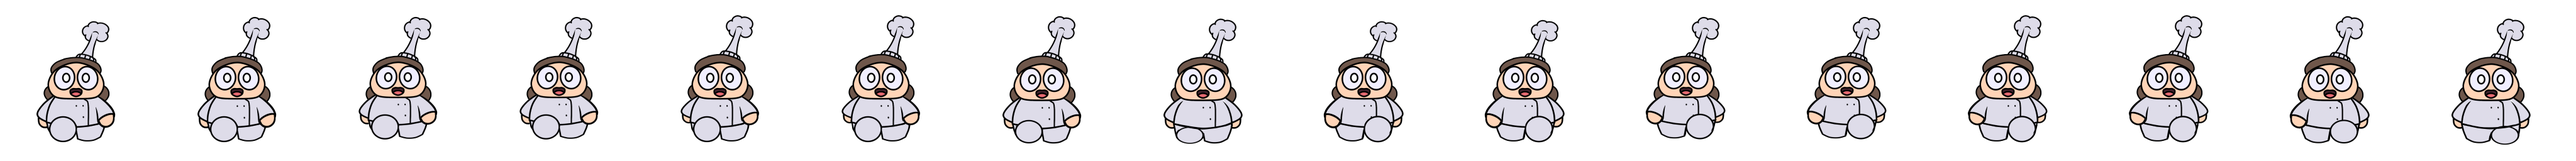
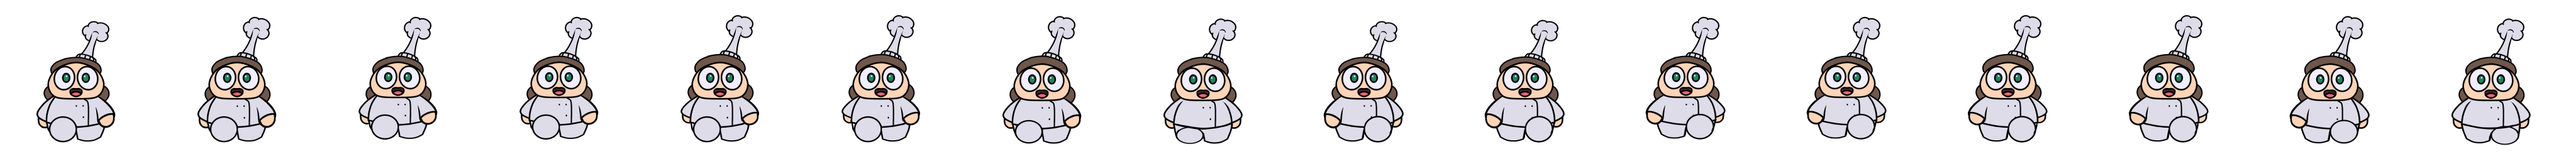
Animaciones Carry

Changed region(s): [[0.9375, 0.7812, 0.9688, 0.8125], [0.4375, 0.7812, 0.4688, 0.8125]]

diff --git a/GameObjects/Player.cpp b/GameObjects/Player.cpp
@@ -39,7 +39,7 @@ overlapDim(Vector2D<int>(50, 50))
 
 	frameCounter = 0;
 	lastFrameTime = sdlutils().currRealTime();
-	frameRate = 5000 / 60;
+	frameRate = 1000 / 50;
 
 	currAnim = 0;
 
@@ -395,18 +395,30 @@ void Player::animUpdate(Vector2D<double> axis)
 		switch (orientation_)
 		{
 		case N:
-			currAnim = 2;
+			if (pickedObject_ != nullptr)
+				currAnim = 8;
+			else 
+				currAnim = 2;
 			break;
 		case S:
-			currAnim = 0;
+			if (pickedObject_ != nullptr)
+				currAnim = 6;
+			else
+				currAnim = 0;
 			break;
 		case E:
-			currAnim = 1;
+			if (pickedObject_ != nullptr)
+				currAnim = 7;
+			else
+				currAnim = 1;
 			flip = SDL_FLIP_NONE;
 			break;
 		case O:
+			if (pickedObject_ != nullptr)
+				currAnim = 7;
+			else
 			currAnim = 1;
-			flip = SDL_FLIP_HORIZONTAL;
+				flip = SDL_FLIP_HORIZONTAL;
 			break;
 		default:
 			break;
@@ -417,21 +429,33 @@ void Player::animUpdate(Vector2D<double> axis)
 
 			if (axis.getY() > .1f && !enComanda) {
 				// Andar Abajo
-				currAnim = 3;
+				if (pickedObject_ != nullptr)
+					currAnim = 9;
+				else
+					currAnim = 3;
 			}
 			else if (axis.getY() < -.1f && !enComanda) {
 				// Andar Arriba
-				currAnim = 5;
+				if (pickedObject_ != nullptr)
+					currAnim = 11;
+				else
+					currAnim = 5;
 			}
 
 			// Horizontal va segundo para tener prioridad
 			if (axis.getX() > .1f && !enComanda) {
 				// Andar der
-				currAnim = 4;
+				if (pickedObject_ != nullptr)
+					currAnim = 10;
+				else
+					currAnim = 4;
 			}
 			else if (axis.getX() < -.1f && !enComanda) {
 				// Andar izq
-				currAnim = 4;
+				if (pickedObject_ != nullptr)
+					currAnim = 10;
+				else
+					currAnim = 4;
 			}
 		}
 	
@@ -447,6 +471,14 @@ void Player::setAnimResources()
 		anims.push_back(&sdlutils().images().at("cocineraWalkDown"));
 		anims.push_back(&sdlutils().images().at("cocineraWalkSide"));
 		anims.push_back(&sdlutils().images().at("cocineraWalkUp"));
+
+		anims.push_back(&sdlutils().images().at("cocineraIdleDownCarry"));
+		anims.push_back(&sdlutils().images().at("cocineraIdleSideCarry"));
+		anims.push_back(&sdlutils().images().at("cocineraIdleUpCarry"));
+
+		anims.push_back(&sdlutils().images().at("cocineraWalkDownCarry"));
+		anims.push_back(&sdlutils().images().at("cocineraWalkSideCarry"));
+		anims.push_back(&sdlutils().images().at("cocineraWalkUpCarry"));
 	}
 
 	else {
@@ -457,6 +489,14 @@ void Player::setAnimResources()
 		anims.push_back(&sdlutils().images().at("camareroWalkDown"));
 		anims.push_back(&sdlutils().images().at("camareroWalkSide"));
 		anims.push_back(&sdlutils().images().at("camareroWalkUp"));
+
+		anims.push_back(&sdlutils().images().at("camareroIdleDownCarry"));
+		anims.push_back(&sdlutils().images().at("camareroIdleSideCarry"));
+		anims.push_back(&sdlutils().images().at("camareroIdleUpCarry"));
+
+		anims.push_back(&sdlutils().images().at("camareroWalkDownCarry"));
+		anims.push_back(&sdlutils().images().at("camareroWalkSideCarry"));
+		anims.push_back(&sdlutils().images().at("camareroWalkUpCarry"));
 	}
 }
 
@@ -480,6 +520,14 @@ void Player::changePlayer(bool c)
 		anims.push_back(&sdlutils().images().at("cocineraWalkDown"));
 		anims.push_back(&sdlutils().images().at("cocineraWalkSide"));
 		anims.push_back(&sdlutils().images().at("cocineraWalkUp"));
+
+		anims.push_back(&sdlutils().images().at("cocineraIdleDownCarry"));
+		anims.push_back(&sdlutils().images().at("cocineraIdleSideCarry"));
+		anims.push_back(&sdlutils().images().at("cocineraIdleUpCarry"));
+
+		anims.push_back(&sdlutils().images().at("cocineraWalkDownCarry"));
+		anims.push_back(&sdlutils().images().at("cocineraWalkSideCarry"));
+		anims.push_back(&sdlutils().images().at("cocineraWalkUpCarry"));
 	}
 
 	else {
@@ -490,6 +538,14 @@ void Player::changePlayer(bool c)
 		anims.push_back(&sdlutils().images().at("camareroWalkDown"));
 		anims.push_back(&sdlutils().images().at("camareroWalkSide"));
 		anims.push_back(&sdlutils().images().at("camareroWalkUp"));
+
+		anims.push_back(&sdlutils().images().at("camareroIdleDownCarry"));
+		anims.push_back(&sdlutils().images().at("camareroIdleSideCarry"));
+		anims.push_back(&sdlutils().images().at("camareroIdleUpCarry"));
+
+		anims.push_back(&sdlutils().images().at("camareroWalkDownCarry"));
+		anims.push_back(&sdlutils().images().at("camareroWalkSideCarry"));
+		anims.push_back(&sdlutils().images().at("camareroWalkUpCarry"));
 	}
 }
 
